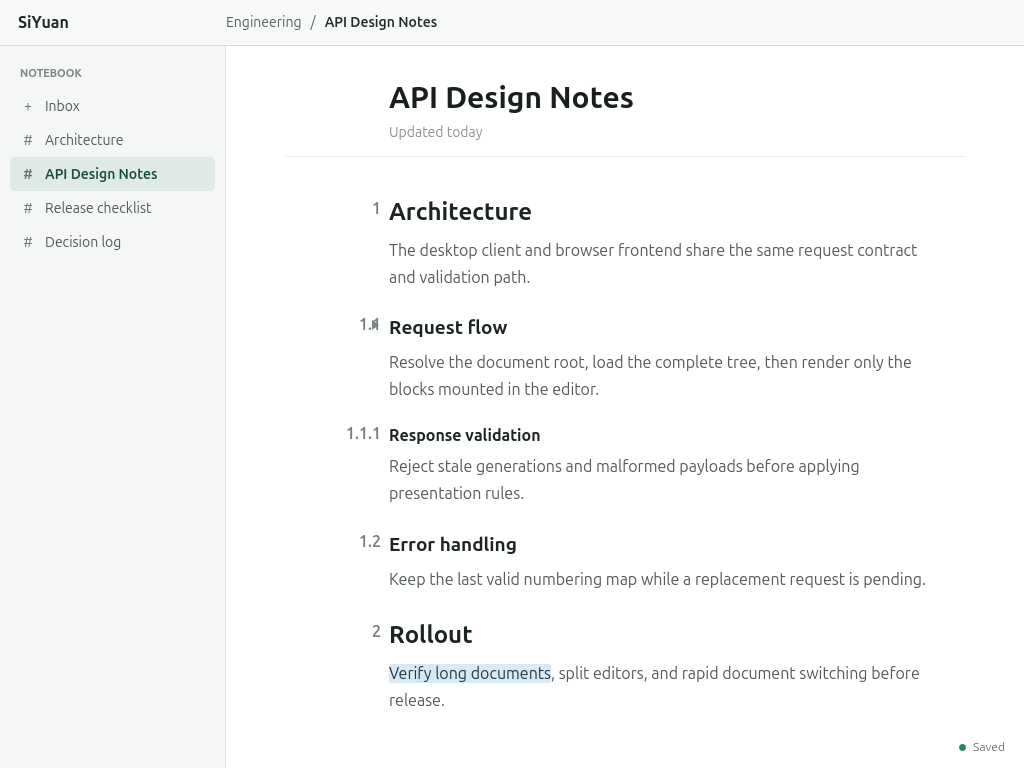
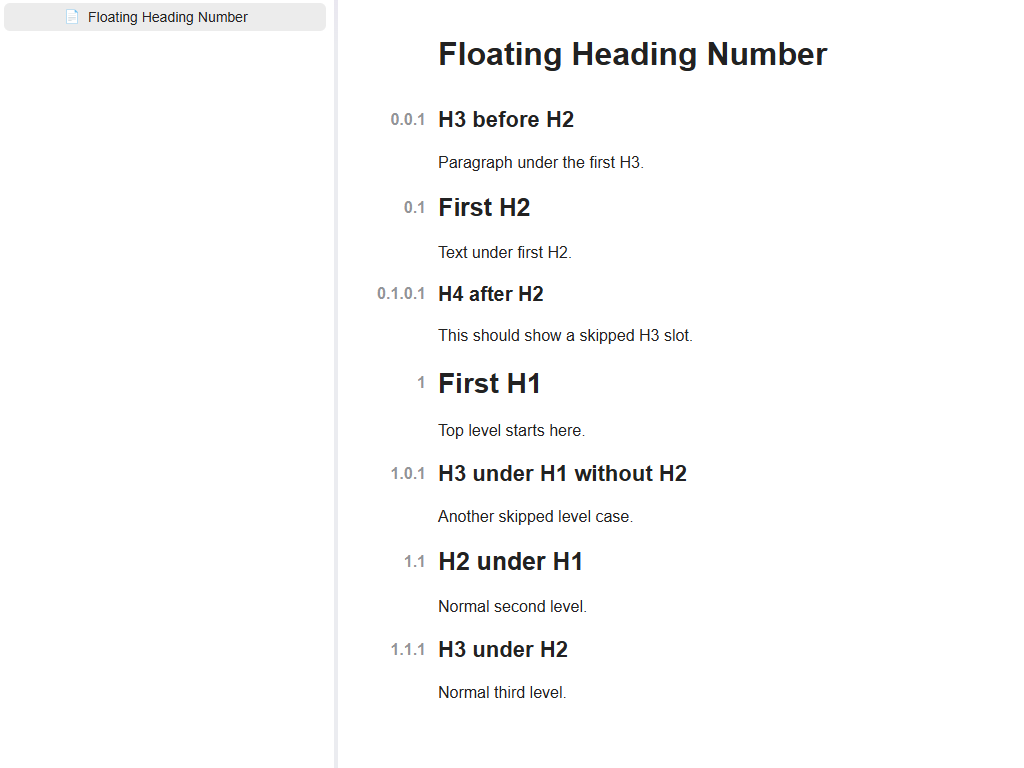
docs: improve marketplace presentation

diff --git a/README.md b/README.md
@@ -4,6 +4,16 @@
 
 Floating Heading Number displays hierarchical numbers floating beside headings in SiYuan's desktop editor. Numbers are computed from the complete BlockDOM returned by the kernel, so they stay exact when a long document is only partially mounted in the editor.
 
+## Demonstration
+
+### Numbering logic
+
+<img width="600" alt="Hierarchical heading numbering demonstration" src="https://raw.githubusercontent.com/airium/siyuan-floating-heading-number/main/assets/numbering-logic.gif">
+
+### Automatic hiding in narrow views
+
+<img width="600" alt="Heading numbers automatically hiding in a narrow editor" src="https://raw.githubusercontent.com/airium/siyuan-floating-heading-number/main/assets/narrow-view-auto-hide.gif">
+
 ## Behavior
 
 * Uses the highest heading level present in the document as the numbering root.
@@ -21,6 +31,19 @@ Floating heading numbering is enabled by default and can be changed globally in 
 SiYuan 3.7.1 or later is required. The plugin supports `desktop`, `browser-desktop`, and `desktop-window`. It is disabled in publishing mode and does not run on mobile frontends.
 
 The implementation relies on the internal `/api/block/getBlockDOM` endpoint and SiYuan's Protyle DOM selectors. These are compatibility dependencies rather than new public APIs.
+
+## Benchmark
+
+Synthetic detached-DOM benchmark recorded on 2026-07-16 with Node.js 24.15.0 and happy-dom 20.10.6. Each fixture contains one heading for every ten blocks, and rendering mounts the first 200 headings to model SiYuan's partial editor DOM.
+
+| Blocks | BlockDOM bytes | Full-tree headings |  Parse time | Visible render time | Generated CSS bytes |
+| -----: | -------------: | -----------------: | ----------: | ------------------: | ------------------: |
+| 10,000 |      1,152,956 |              1,000 |   795.71 ms |            15.05 ms |              85,036 |
+| 50,000 |      5,808,956 |              5,000 | 3,898.49 ms |             4.32 ms |              85,036 |
+
+The benchmark preserves exact full-tree numbering at both sizes and never uses a visible-only fallback. Unit tests separately verify that simultaneous split-editor loads coalesce into one request.
+
+Browser DOM parsing performance is implementation-dependent, so these numbers are a regression baseline rather than a prediction for SiYuan's Chromium runtime. No live SiYuan 3.7.1 kernel was available during this run; use `pnpm benchmark -- --endpoint http://127.0.0.1:6806 --root-id <id>` to append kernel response time and response size measurements for a real document.
 
 ## Development
 

diff --git a/README.zh-CN.md b/README.zh-CN.md
@@ -4,6 +4,16 @@
 
 浮动标题编号插件在思源桌面编辑器的标题旁浮动显示层级编号。编号根据内核返回的完整 BlockDOM 计算，因此即使长文档仅有一部分挂载在编辑器中，编号仍然准确。
 
+## 功能演示
+
+### 编号逻辑
+
+<img width="600" alt="层级标题编号演示" src="https://raw.githubusercontent.com/airium/siyuan-floating-heading-number/main/assets/numbering-logic.gif">
+
+### 在窄视图中自动隐藏
+
+<img width="600" alt="标题编号在窄编辑器中自动隐藏" src="https://raw.githubusercontent.com/airium/siyuan-floating-heading-number/main/assets/narrow-view-auto-hide.gif">
+
 ## 行为
 
 * 以文档中实际存在的最高标题级别作为编号根级别。
@@ -21,6 +31,19 @@
 需要思源 3.7.1 或更高版本。插件支持 `desktop`、`browser-desktop` 和 `desktop-window`，在发布模式中禁用，且不在移动端前端运行。
 
 实现依赖内部的 `/api/block/getBlockDOM` 端点和思源 Protyle DOM 选择器。这些是兼容性依赖，不是新增的公共 API。
+
+## 性能基准
+
+以下分离 DOM 合成基准于 2026-07-16 使用 Node.js 24.15.0 和 happy-dom 20.10.6 记录。每个测试文档每十个块包含一个标题，渲染时挂载前 200 个标题，以模拟思源编辑器仅加载部分 DOM 的情况。
+
+|   块数 | BlockDOM 字节数 | 完整树标题数 |    解析耗时 | 可见区域渲染耗时 | 生成的 CSS 字节数 |
+| -----: | --------------: | -----------: | ----------: | ---------------: | ----------------: |
+| 10,000 |       1,152,956 |        1,000 |   795.71 ms |         15.05 ms |            85,036 |
+| 50,000 |       5,808,956 |        5,000 | 3,898.49 ms |          4.32 ms |            85,036 |
+
+两种规模的基准均保持基于完整文档树的精确编号，从不回退到仅对可见标题编号。单元测试另行验证了同时加载的分屏编辑器会合并为一次请求。
+
+浏览器 DOM 解析性能取决于具体实现，因此这些数字用于回归比较，而不是对思源 Chromium 运行时性能的预测。本次运行时没有可用的思源 3.7.1 内核；可运行 `pnpm benchmark -- --endpoint http://127.0.0.1:6806 --root-id <id>`，为真实文档追加内核响应耗时和响应大小测量。
 
 ## 开发
 